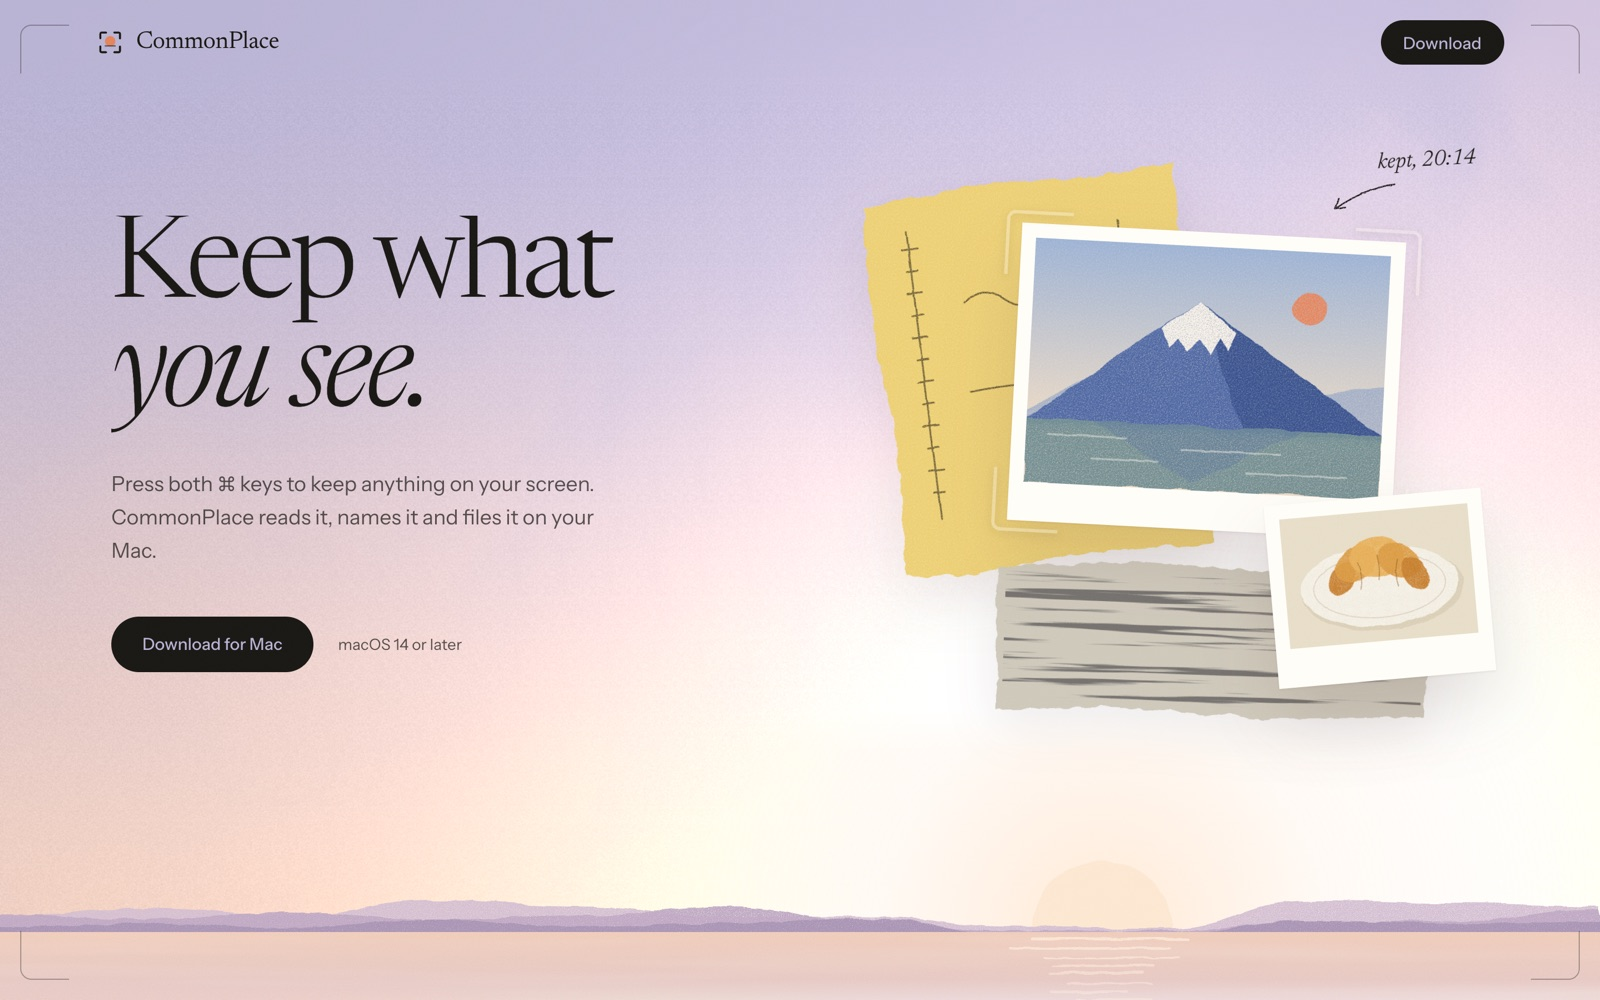
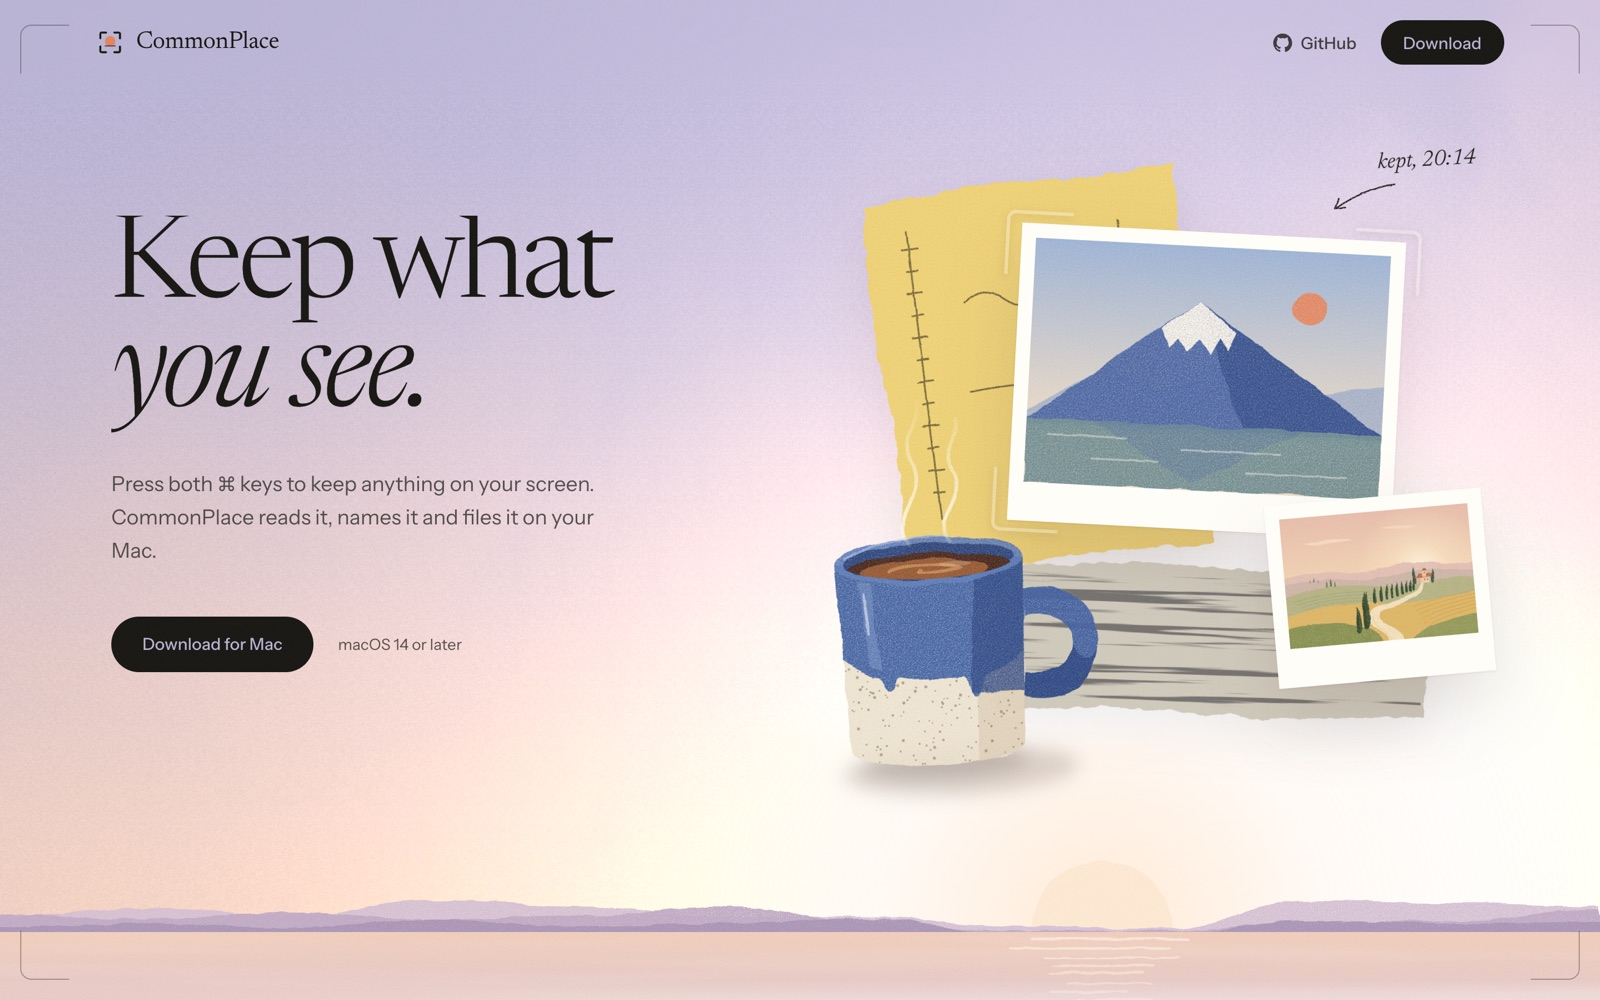
A Tuscan print and a big mug of coffee in the collage
The croissant print is now a cypress avenue through Tuscan hills, and an
unframed stoneware mug sits at the front of the collage. Art is no longer
cached as immutable, so redrawn pictures reach browsers, and the scenes
never widen a phone's page.

Changed region(s): [[0.5, 0.496, 0.6875, 0.806], [0.7812, 0.496, 0.9375, 0.651], [0.7812, 0.031, 0.8438, 0.062]]

diff --git a/site/styles.css b/site/styles.css
@@ -176,18 +176,23 @@ p { margin: 0; }
 .opening-words .opening-actions { animation-delay: 0.55s; }
 @keyframes rise { to { opacity: 1; transform: none; } }
 
-/* The collage: yellow paper, a strip of dry ink, two prints; the
-   viewfinder's corners close on the first, as the app does. */
+/* The collage: yellow paper, a strip of dry ink, two prints and a mug of
+   coffee standing on them; the viewfinder's corners close on the first
+   print, as the app does. */
 .collage { position: relative; aspect-ratio: 1 / 0.92; width: 100%; max-width: 600px; justify-self: end; }
 .collage > * { position: absolute; margin: 0; opacity: 0; animation: lay 1.5s var(--ease) forwards;
   translate: calc(var(--px, 0) * var(--d, 10) * 1px) calc(var(--py, 0) * var(--d, 10) * 1px); }
-.c-yellow { --d: 8; } .c-ink { --d: 5; } .c-fuji { --d: 14; } .c-cup { --d: 22; } .c-note, .c-note-line { --d: 18; }
+.c-yellow { --d: 8; } .c-ink { --d: 5; } .c-fuji { --d: 14; } .c-tuscany { --d: 22; } .c-mug { --d: 28; } .c-note, .c-note-line { --d: 18; }
 .c-yellow { left: 4%; top: 4%; width: 52%; --r: -7deg; filter: saturate(0.72) brightness(1.04) drop-shadow(0 16px 26px rgba(70, 45, 40, 0.12)); animation-delay: 0.3s; }
 .c-ink { left: 22%; bottom: 3%; width: 70%; --r: 2deg; filter: contrast(0.55) brightness(1.12) drop-shadow(0 12px 22px rgba(70, 45, 40, 0.1)); animation-delay: 0.45s; }
 .c-print { padding: 2.2% 2.2% 6%; background: var(--paper); box-shadow: var(--lift-high); }
 .c-print img { width: 100%; }
 .c-fuji { left: 26%; top: 14%; width: 60%; --r: 3deg; animation-delay: 0.6s; }
-.c-cup { right: 0; bottom: 10%; width: 34%; --r: -5deg; animation-delay: 0.8s; }
+.c-tuscany { right: 0; bottom: 10%; width: 34%; --r: -5deg; animation-delay: 0.8s; }
+/* The mug's box is the mug (x 46-310, y 142-374 of its 16 0 300 430 canvas), so
+   the viewfinder closes on it; the steam above and its shadow below spill out. */
+.c-mug { left: -1.8%; bottom: -4.5%; width: 41.4%; aspect-ratio: 264 / 232; --r: -3deg; animation-delay: 1s; }
+.c-mug img { position: absolute; left: -11.36%; top: -61.21%; width: 113.64%; max-width: none; }
 .c-note { right: 2%; top: 0; font: italic 360 20px/1 var(--serif); color: var(--fg); --r: -3deg; animation-delay: 1.9s; }
 .c-note-line { right: 14%; top: 5%; width: 64px; fill: none; stroke: var(--fg); stroke-width: 1.8; stroke-linecap: round; filter: url(#pencil); --r: 0deg; animation-delay: 1.9s; }
 @keyframes lay {
@@ -208,6 +213,7 @@ p { margin: 0; }
 .scene {
   position: relative;
   min-height: 110vh;
+  overflow-x: clip; /* the filing cards start scattered past a phone's edge */
   display: flex;
   flex-direction: column;
   justify-content: center;
@@ -391,7 +397,7 @@ p { margin: 0; }
 @media (max-width: 860px) {
   .opening { padding-top: 104px; }
   .opening-grid { grid-template-columns: 1fr; gap: 24px; }
-  .collage { order: -1; justify-self: center; max-width: 420px; }
+  .collage { order: -1; justify-self: center; max-width: 420px; margin-bottom: 28px; } /* the mug stands below its edge */
   .opening-words { text-align: left; }
   .table-bracket, .table-note { display: none; }
   .table { height: 680px; transform: none; margin: 56px auto 0; }

diff --git a/site/index.html b/site/index.html
@@ -63,7 +63,8 @@
       <figure class="c-print c-fuji"><img src="/art/mountain.svg" alt="">
         <span class="frame"><i></i><i></i><i></i><i></i></span>
       </figure>
-      <figure class="c-print c-cup" data-keep><img src="/art/croissant.svg" alt=""></figure>
+      <figure class="c-print c-tuscany" data-keep><img src="/art/tuscany.svg" alt=""></figure>
+      <figure class="c-mug" data-keep><img src="/art/mug.svg" alt=""></figure>
       <p class="c-note">kept, 20:14</p>
       <svg class="c-note-line" viewBox="0 0 80 40"><path d="M76 6 C56 8 30 18 8 34 M8 34 l4 -12 M8 34 l12 -2"/></svg>
     </div>
